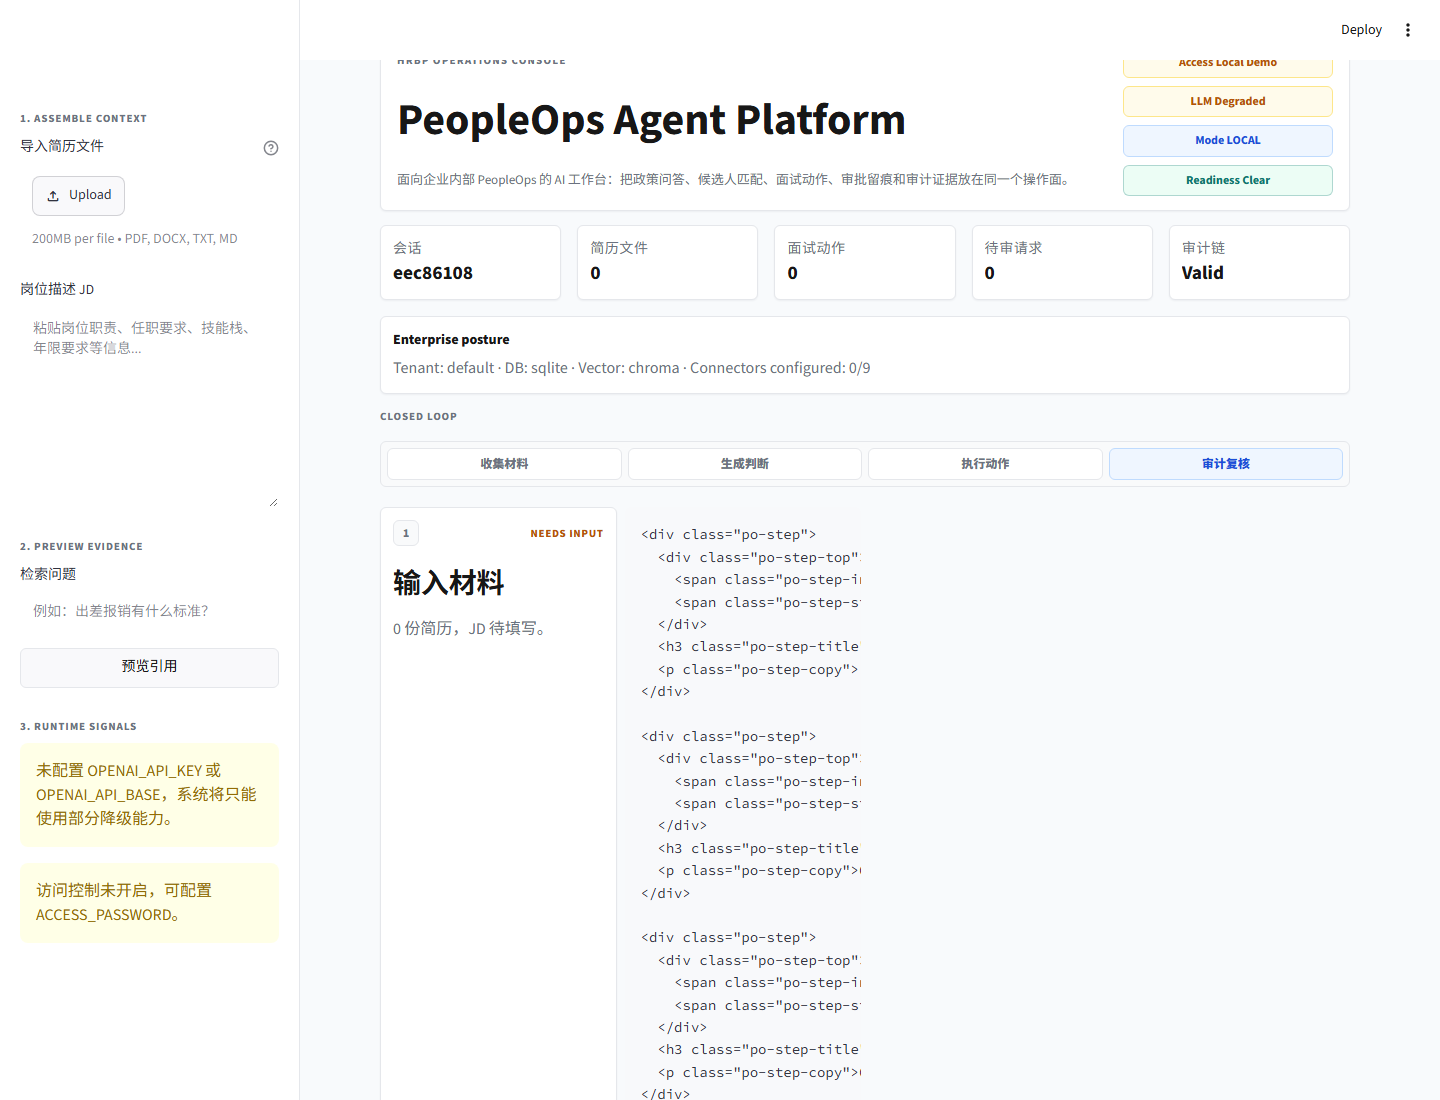
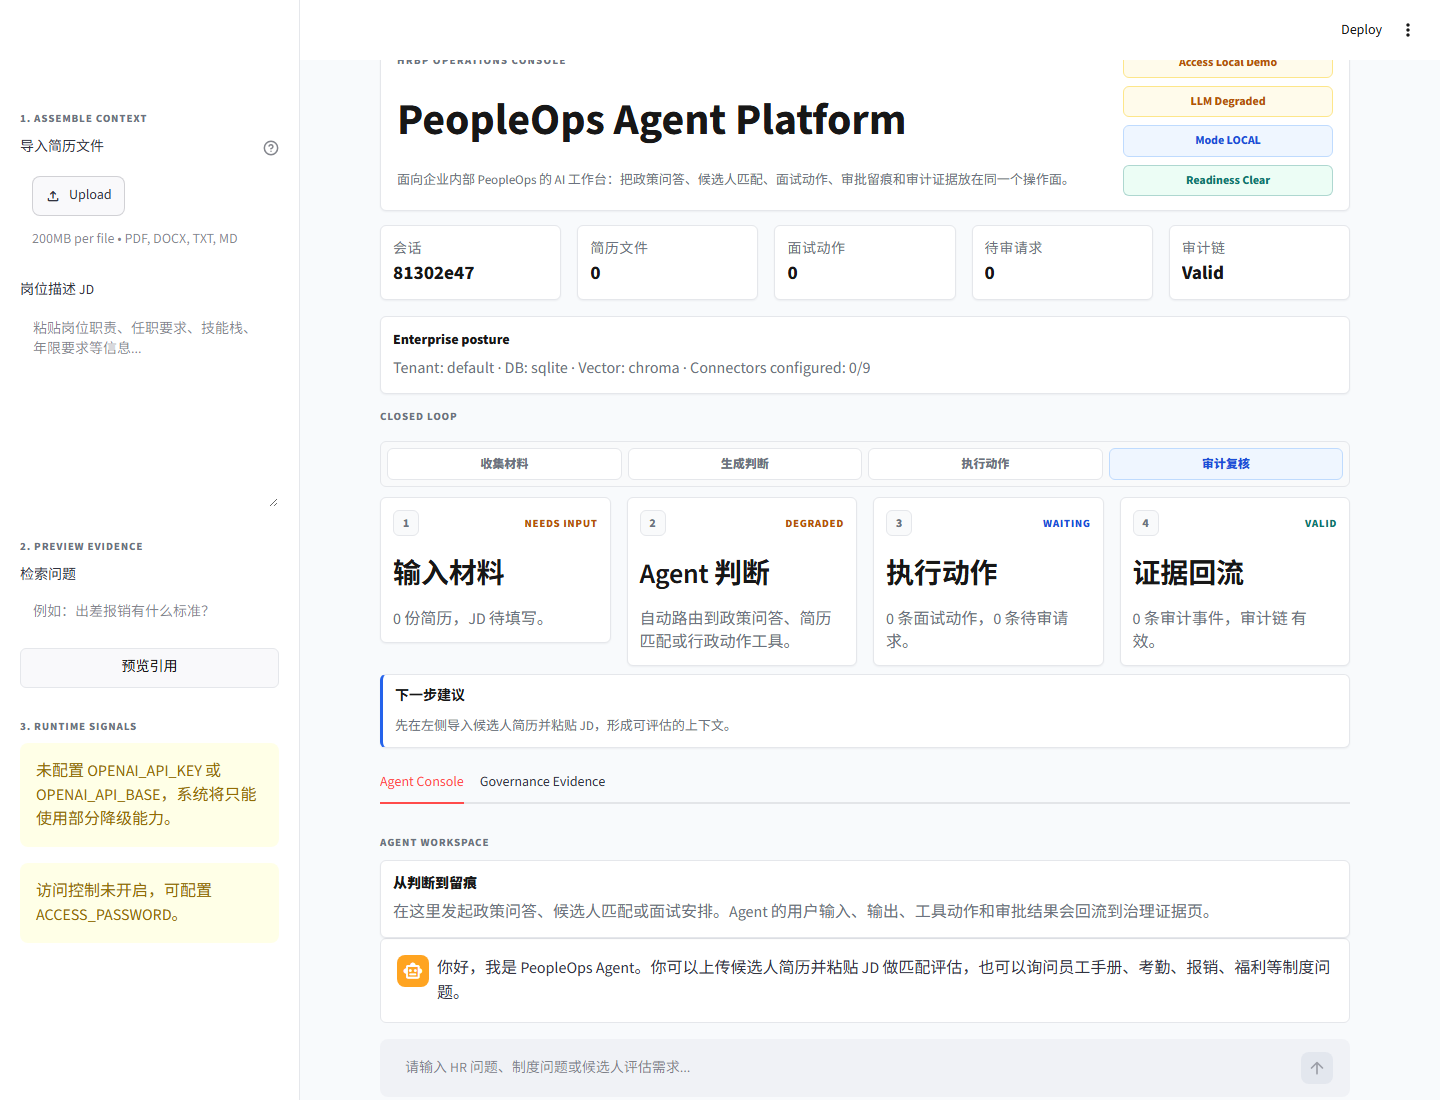
Fix closed loop card rendering

diff --git a/app.py b/app.py
@@ -497,15 +497,13 @@ def render_workflow_loop(jd_input: str) -> dict:
         + "</div>",
         unsafe_allow_html=True,
     )
-    st.markdown(
-        '<div class="po-loop-grid">'
-        + "".join(
-            render_step(idx, step["title"], step["copy"], step["state"], step["tone"])
-            for idx, step in enumerate(snapshot["steps"], start=1)
-        )
-        + "</div>",
-        unsafe_allow_html=True,
-    )
+    step_cols = st.columns(4)
+    for idx, step in enumerate(snapshot["steps"], start=1):
+        with step_cols[idx - 1]:
+            st.markdown(
+                render_step(idx, step["title"], step["copy"], step["state"], step["tone"]),
+                unsafe_allow_html=True,
+            )
     st.markdown(
         f"""
         <div class="po-next-action">